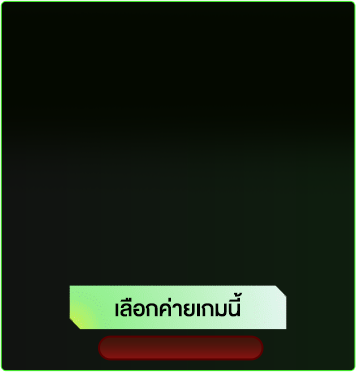
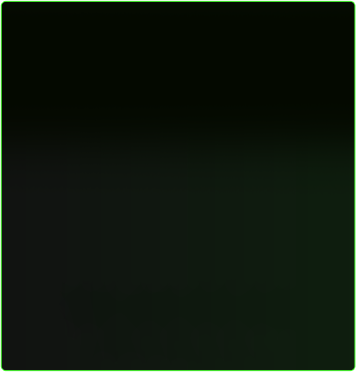
kim

Changed region(s): [[0.1854, 0.7688, 0.8034, 0.9758]]

diff --git a/public/home/assets/css/style.css b/public/home/assets/css/style.css
@@ -88,7 +88,7 @@ span, p , li ,strong, option , label, input, a, b {
     width: 100%;
     margin-left: auto;
     margin-right: auto;
-    max-width: 22rem;
+    max-width: 25rem;
     padding-left: 0rem;
     padding-right: 0rem;
 
@@ -122,7 +122,7 @@ span, p , li ,strong, option , label, input, a, b {
       width: 100%;
       margin-left: auto;
       margin-right: auto;
-      max-width: 22rem;
+      max-width: 25rem;
       padding-left: 0rem;
       padding-right: 0rem;
   
@@ -144,6 +144,36 @@ span, p , li ,strong, option , label, input, a, b {
   
     }
 
+  }
+  .padd_x{
+    padding: 8px 7px 12px 7px;
+  }
+  .boxx_gamex{
+    width: 122px; 
+    height:88px; 
+  }
+  .winrate{
+    font-size: 10px;
+}
+.recen_x{
+  margin-top:11px;
+  width: 92px;
+}
+  @media (max-width: 407px) {
+    .padd_x{
+      padding: 8px 5px 12px 5px;
+    }
+    .recen_x{
+      margin-top:6px;
+      width: 92px;
+    }
+    .boxx_gamex{
+      width: 115px; 
+      height:86px; 
+    }
+    .winrate{
+      font-size: 8px;
+    }
   }
   .chakra-container-f{
     width: 100%;
@@ -351,7 +381,6 @@ span, p , li ,strong, option , label, input, a, b {
 .winrate{
     color: #fff;
     font-weight: 700;
-    font-size: 10px;
     margin-bottom: 0rem;
     padding-top: 2px;
 }

diff --git a/resources/views/games.blade.php b/resources/views/games.blade.php
@@ -7,116 +7,6 @@
 
 @section('stylesheet')
 
-<style>
-
-.cards {
-  display: grid;
-  grid-template-columns: repeat(auto-fit, minmax(33%, 1fr));
-  gap: 2rem;
-  padding: 0;
-  list-style-type: none;
-}
-
-.card {
-  position: relative;
-  display: block;
-  height: 100%;  
-  border-radius: calc(15 * 1px);
-  overflow: hidden;
-  text-decoration: none;
-}
-
-.card__image {      
-  width: 100%;
-  height: auto;
-}
-
-.card__overlay {
-  position: absolute;
-  bottom: 0;
-  left: 0;
-  right: 0;
-  z-index: 1;      
-  border-radius: calc(40 * 1px);    
-  background-color: var(--surface-color);      
-  transform: translateY(100%);
-  transition: .2s ease-in-out;
-}
-
-.card:hover .card__overlay {
-  transform: translateY(0);
-}
-
-.card__header {
-    position: relative;
-    display: flex;
-    align-items: center;
-    padding: 5px 5px;
-    border-radius: calc(18 * 1px) 0 0 0;
-    background-color: #f0a83e;
-    transform: translateY(-100%);
-    transition: .2s ease-in-out;
-}
-
-.card__arc {
-  width: 80px;
-  height: 80px;
-  position: absolute;
-  bottom: 100%;
-  right: 0;      
-  z-index: 1;
-}
-
-.card__arc path {
-    fill: #f0a83e;
-    d: path("M 40 80 c 40 0 40 -14 40 -40 v 40 Z");
-}      
-
-.card:hover .card__header {
-  transform: translateY(0);
-}
-
-.card__thumb {
-  flex-shrink: 0;
-  width: 30px;
-  height: 30px;      
-  border-radius: 50%;      
-}
-
-.card__title {
-  font-size: 12px;
-  margin: 0 0 .3em;
-  color: #fff;
-}
-
-.card__tagline {
-  display: block;
-  margin: 1em 0;
-  font-family: "MockFlowFont";  
-  font-size: .8em; 
-  color: #D7BDCA;  
-}
-
-.card__status {
-  font-size: .8em;
-  color: #D7BDCA;
-}
-
-.card__description {
-  padding: 0 2em 2em;
-  margin: 0;
-  color: #D7BDCA;
-  font-family: "MockFlowFont";   
-  display: -webkit-box;
-  -webkit-box-orient: vertical;
-  -webkit-line-clamp: 3;
-  overflow: hidden;
-}    
-.card__header-text{
-    margin-left: 5px;
-}
-</style>
-
 @stop('stylesheet')
 
 @section('content')
@@ -163,28 +53,29 @@
                 </div>
                 <div class="box-height-10"></div>
                 <div class="card-body">
-                <!-- <div class="row" >
-            
+                <div class="row" >
+                    
+                <style>
+                    .col-6-new{
+                        background-image: url('{{ url('/img/page2/กรอบเกม.png')}}');
+                        /* background-position: center center; home/assets/img/page6/Rectangle.png */ 
+                        background-size: contain;
+                        background-repeat: no-repeat;
+                        min-height:150px;
+                        min-width:150px;
+                        padding:12px
+                    }
+                </style>
+
                 @if(isset($objs))
                 @foreach($objs as $u)
 
-                    <div class="col-6 col-6-new ">
-                        <div class="text-center">
-                            @if($u->cat_id == 1)
+                    <div class="col-6  " style="margin-bottom:15px">
+                        <div class="text-center col-6-new">
 
                             <a href="{{ url('rooms_slot?casino='.$u->game_name_short) }}">
                                 <img class="img-fluid" src="{{ url('images/game/game/'.$u->game_image) }}">
-                                <img class="img-fluid" src="{{ url('/home/assets/img/page3/Click-Now.png') }}" style="height: 20px; margin-top: 0px;">
                             </a>
-
-                            @else
-
-                            <a href="{{ url('rooms?casino='.$u->game_name_short) }}">
-                                <img class="img-fluid" src="{{ url('images/game/game/'.$u->game_image) }}">
-                                <img class="img-fluid" src="{{ url('/home/assets/img/page3/Click-Now.png') }}" style="height: 20px; margin-top: 0px;">
-                            </a>
-
-                            @endif
                             
                         </div>
                     </div>
@@ -192,31 +83,7 @@
                 @endforeach
                 @endif
                     
-                </div> -->
-
-                <ul class="cards">
-
-                @if(isset($objs))
-                @foreach($objs as $u)
-                <li>
-                    <a href="{{ url('rooms_slot?casino='.$u->game_name_short) }}" class="card">
-                    <img src="{{ url('images/game/game/'.$u->game_image) }}" class="card__image" alt="" />
-                    <div class="card__overlay">
-                        <div class="card__header">
-                        <svg class="card__arc" xmlns="http://www.w3.org/2000/svg"><path /></svg>     
-                        <img class="card__thumb" src="{{ url('images/game/game/'.$u->game_image) }}" alt="{{$u->game_name}}" />
-                        <div class="card__header-text">
-                            <h3 class="card__title">{{$u->game_name}}</h3>    
-                        </div>
-                        </div>
-                    </div>
-                    </a>      
-                </li>
-                @endforeach
-                @endif
-
-                </ul>
-
+                </div>
                 </div>
         </div>
     </div>

diff --git a/resources/views/rooms-slot.blade.php b/resources/views/rooms-slot.blade.php
@@ -108,9 +108,7 @@
                         .gameName-p6{
                             margin-top: -8px
                         }
-                        .winrate{
-                            font-size: 10px;
-                        }
+                        
                         .funcx{
                             text-align: end;
                             margin-top: -3px;
@@ -145,7 +143,7 @@
                             @endphp
                             <div class="text-center">
                                 <a href="#">
-                                    <div class="bg-game-slot" style="width: 122px; height:88px; padding: 8px 7px 12px 7px; }}');">
+                                    <div class="bg-game-slot boxx_gamex padd_x" >
                                         <p class="gameName-p6">{{ $u->room }} </p>
                                         <div class="d-flex justify-content-between" style="margin-top:0px">
                                             <img src="{{ url('images/game/room/'.$u->room_image) }}" style="width: 50px; height: 52px; border-radius: 5px; padding-top:5px">
@@ -160,7 +158,7 @@
                                         </div>
                                         <div class="d-flex">
                                             <img src="{{ url('images/game/game/'.$game->game_image) }}" class="logo_gamesx">
-                                        <div style="margin-top:11px; width: 90px; float:right; margin-right:-5px">
+                                        <div class="recen_x" style="float:right; margin-right:-5px">
                                             <div class="" style=" ">
                                                 <div id="xroom-percent-{{ $u->id }}" class="progress " style="height:12px; ">
                                                     <div class="progress-bar  gd-warning" data-toggle="tooltip" title="{{ $u->percent }}%" style="width: {{ $u->percent }}%"></div>
